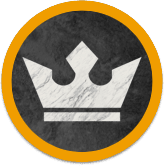
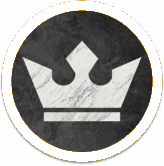
Commit 3
- Changed selected borders
- Made black start game.

Changed region(s): [[0.0, 0.0, 1.0, 0.994]]

diff --git a/ui.cpp b/ui.cpp
@@ -39,7 +39,7 @@ int board[8][8] = {
     {0, 2, 0, 2, 0, 2, 0, 2}
 };
 
-bool isPlayer2 = false;
+bool isPlayer2 = true;
 int selectedX = -1,
     selectedY = -1;
 int piecesRemaining[2] = {12, 12};
